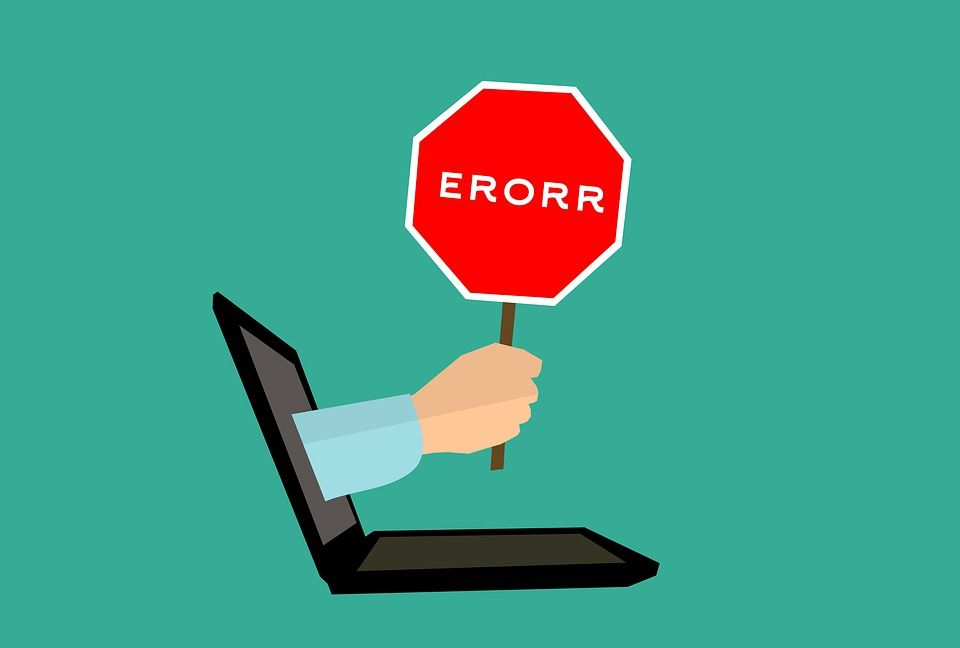
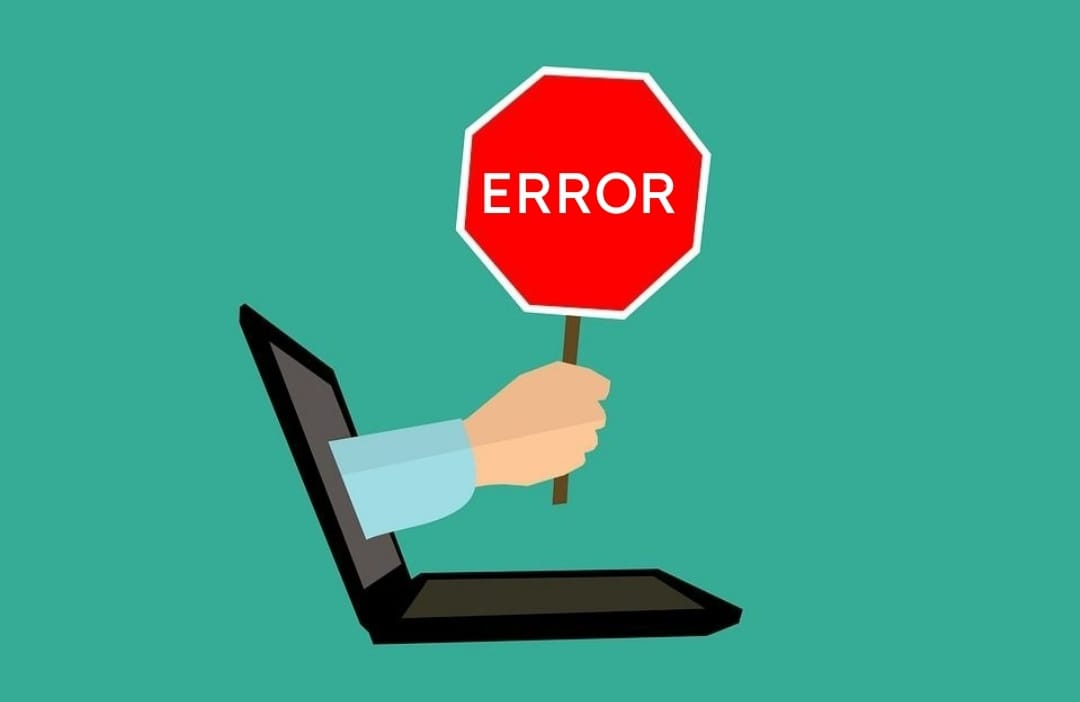
- Corregido error en imagen (error.jpg). - Diseñadas pantallas "modals" en "subir_canciones_usuario.html" y "subir_canciones_artista.html".

diff --git a/src/main/resources/templates/subir_canciones_artista.html b/src/main/resources/templates/subir_canciones_artista.html
@@ -28,6 +28,75 @@
 </head>
 <body>
 
+<!-- modal para subir canción  -->
+<div class="modal fade" id="modalsubircancion" tabindex="-1" aria-labelledby="modalsubircancionLabel" style="display: none;" aria-hidden="true">
+    <div class="modal-dialog">
+        <div class="modal-content">
+            <div class="modal-header">
+                <h5 class="modal-title" id="modalsubircancionLabel">Subir canción</h5>
+                <button type="button" class="btn-close" data-bs-dismiss="modal" aria-label="Close"></button>
+            </div>
+            <div class="modal-body">
+
+                <form>
+                    <div class="form-group">
+                        <label for="song_title">Título de la canción:</label>
+                        <input type="text" id="song_title" name="song_title">
+                    </div>
+                    <div class="form-group my-3">
+                        <label for="song_image">Imagen para la canción:</label>
+                        <input type="file" id="song_image" name="song_image" accept="image/*">
+                    </div>
+                    <div class="form-group my-3">
+                        <label for="song_description">Descripción de la canción:</label>
+                        <textarea id="song_description" name="song_description"></textarea>
+                    </div>
+                    <div class="form-group my-3">
+                        <label for="song_category">Categoría de la canción:</label>
+                        <select id="song_category" name="song_category">
+                            <option value="">Selecciona una categoría</option>
+                            <option value="pop">Pop</option>
+                            <option value="rock">Rock</option>
+                            <option value="flamenco">Flamenco</option>
+                            <option value="blues">Blues</option>
+                            <option value="jazz">Jazz</option>
+                            <option value="rap">Rap</option>
+                            <option value="metal">Metal</option>
+                            <option value="hard metal">Hard Metal</option>
+                            <option value="musica clasica">Música Clásica</option>
+                            <option value="soul">Soul</option>
+                            <option value="country">Country</option>
+                            <option value="electronica">Electrónica</option>
+                            <option value="hiphop">Hip-Hop</option>
+                            <option value="reggaeton">Reggaeton</option>
+                            <option value="punk">Punk</option>
+                            <option value="disco">Disco</option>
+                            <option value="hard rock">Hard-Rock</option>
+                            <option value="pop latino">Pop Latino</option>
+                            <option value="gospel">Gospel</option>
+                            <option value="heavy metal">Heavy Metal</option>
+                            <option value="salsa">Salsa</option>
+                            <option value="cumbia">Cumbia</option>
+                            <option value="trap">Trap</option>
+                            <option value="musica folclorica">Música Folclórica</option>
+                            <option value="tango">Tango</option>
+                            <option value="samba">Samba</option>
+                        </select>
+                    </div>
+                    <div class="form-group my-3">
+                        <label for="song_file">Subir canción:</label>
+                        <input type="file" id="song_file" name="song_file" accept="audio/*">
+                    </div>
+                    <button type="button" class="btn btn-secondary my-3" data-bs-dismiss="modal">Descartar cambios</button>
+                    <button type="submit" class="btn btn-primary my-3">Guardar cambios</button>
+                </form>
+
+            </div>
+        </div>
+    </div>
+</div>
+
+
 <div class="container-fluid">
     <div class="row">
         <button id="toggle-sidebar" class="btn btn-primary d-md-none">
@@ -122,8 +191,7 @@
                         <i class="bi bi-play-fill fs-1"></i>
                     </button>
                     <button class="btn-outline-secondary" type="button" style="float: left; margin-right: 10px; background-color: transparent; border:none;" onclick="document.getElementById('fileInput').click()">
-                        <i class="fas fa-upload fs-1"></i>
-                        <input type="file" id="fileInput" style="display: none;">
+                        <i class="fas fa-upload fs-1" data-bs-toggle="modal" data-bs-target="#modalsubircancion" style="cursor:pointer;"></i>
                     </button>
                 </div>
             </div>

diff --git a/src/main/resources/templates/subir_canciones_usuario.html b/src/main/resources/templates/subir_canciones_usuario.html
@@ -28,6 +28,74 @@
 </head>
 <body>
 
+<!-- modal para subir canción  -->
+<div class="modal fade" id="modalsubircancion" tabindex="-1" aria-labelledby="modalsubircancionLabel" style="display: none;" aria-hidden="true">
+  <div class="modal-dialog">
+    <div class="modal-content">
+      <div class="modal-header">
+        <h5 class="modal-title" id="modalsubircancionLabel">Subir canción</h5>
+        <button type="button" class="btn-close" data-bs-dismiss="modal" aria-label="Close"></button>
+      </div>
+      <div class="modal-body">
+
+        <form>
+          <div class="form-group">
+            <label for="song_title">Título de la canción:</label>
+            <input type="text" id="song_title" name="song_title">
+          </div>
+          <div class="form-group my-3">
+            <label for="song_image">Imagen para la canción:</label>
+            <input type="file" id="song_image" name="song_image" accept="image/*">
+          </div>
+          <div class="form-group my-3">
+            <label for="song_description">Descripción de la canción:</label>
+            <textarea id="song_description" name="song_description"></textarea>
+          </div>
+          <div class="form-group my-3">
+            <label for="song_category">Categoría de la canción:</label>
+            <select id="song_category" name="song_category">
+              <option value="">Selecciona una categoría</option>
+              <option value="pop">Pop</option>
+              <option value="rock">Rock</option>
+              <option value="flamenco">Flamenco</option>
+              <option value="blues">Blues</option>
+              <option value="jazz">Jazz</option>
+              <option value="rap">Rap</option>
+              <option value="metal">Metal</option>
+              <option value="hard metal">Hard Metal</option>
+              <option value="musica clasica">Música Clásica</option>
+              <option value="soul">Soul</option>
+              <option value="country">Country</option>
+              <option value="electronica">Electrónica</option>
+              <option value="hiphop">Hip-Hop</option>
+              <option value="reggaeton">Reggaeton</option>
+              <option value="punk">Punk</option>
+              <option value="disco">Disco</option>
+              <option value="hard rock">Hard-Rock</option>
+              <option value="pop latino">Pop Latino</option>
+              <option value="gospel">Gospel</option>
+              <option value="heavy metal">Heavy Metal</option>
+              <option value="salsa">Salsa</option>
+              <option value="cumbia">Cumbia</option>
+              <option value="trap">Trap</option>
+              <option value="musica folclorica">Música Folclórica</option>
+              <option value="tango">Tango</option>
+              <option value="samba">Samba</option>
+            </select>
+          </div>
+          <div class="form-group my-3">
+            <label for="song_file">Subir canción:</label>
+            <input type="file" id="song_file" name="song_file" accept="audio/*">
+          </div>
+          <button type="button" class="btn btn-secondary my-3" data-bs-dismiss="modal">Descartar cambios</button>
+          <button type="submit" class="btn btn-primary my-3">Guardar cambios</button>
+        </form>
+
+      </div>
+    </div>
+  </div>
+</div>
+
 <div class="container-fluid">
   <div class="row">
     <button id="toggle-sidebar" class="btn btn-primary d-md-none">
@@ -119,8 +187,7 @@
             <i class="bi bi-play-fill fs-1"></i>
           </button>
           <button class="btn-outline-secondary" type="button" style="float: left; margin-right: 10px; background-color: transparent; border:none;" onclick="document.getElementById('fileInput').click()">
-            <i class="fas fa-upload fs-1"></i>
-            <input type="file" id="fileInput" style="display: none;">
+            <i class="fas fa-upload fs-1" data-bs-toggle="modal" data-bs-target="#modalsubircancion" style="cursor:pointer;"></i>
           </button>
         </div>
       </div>
